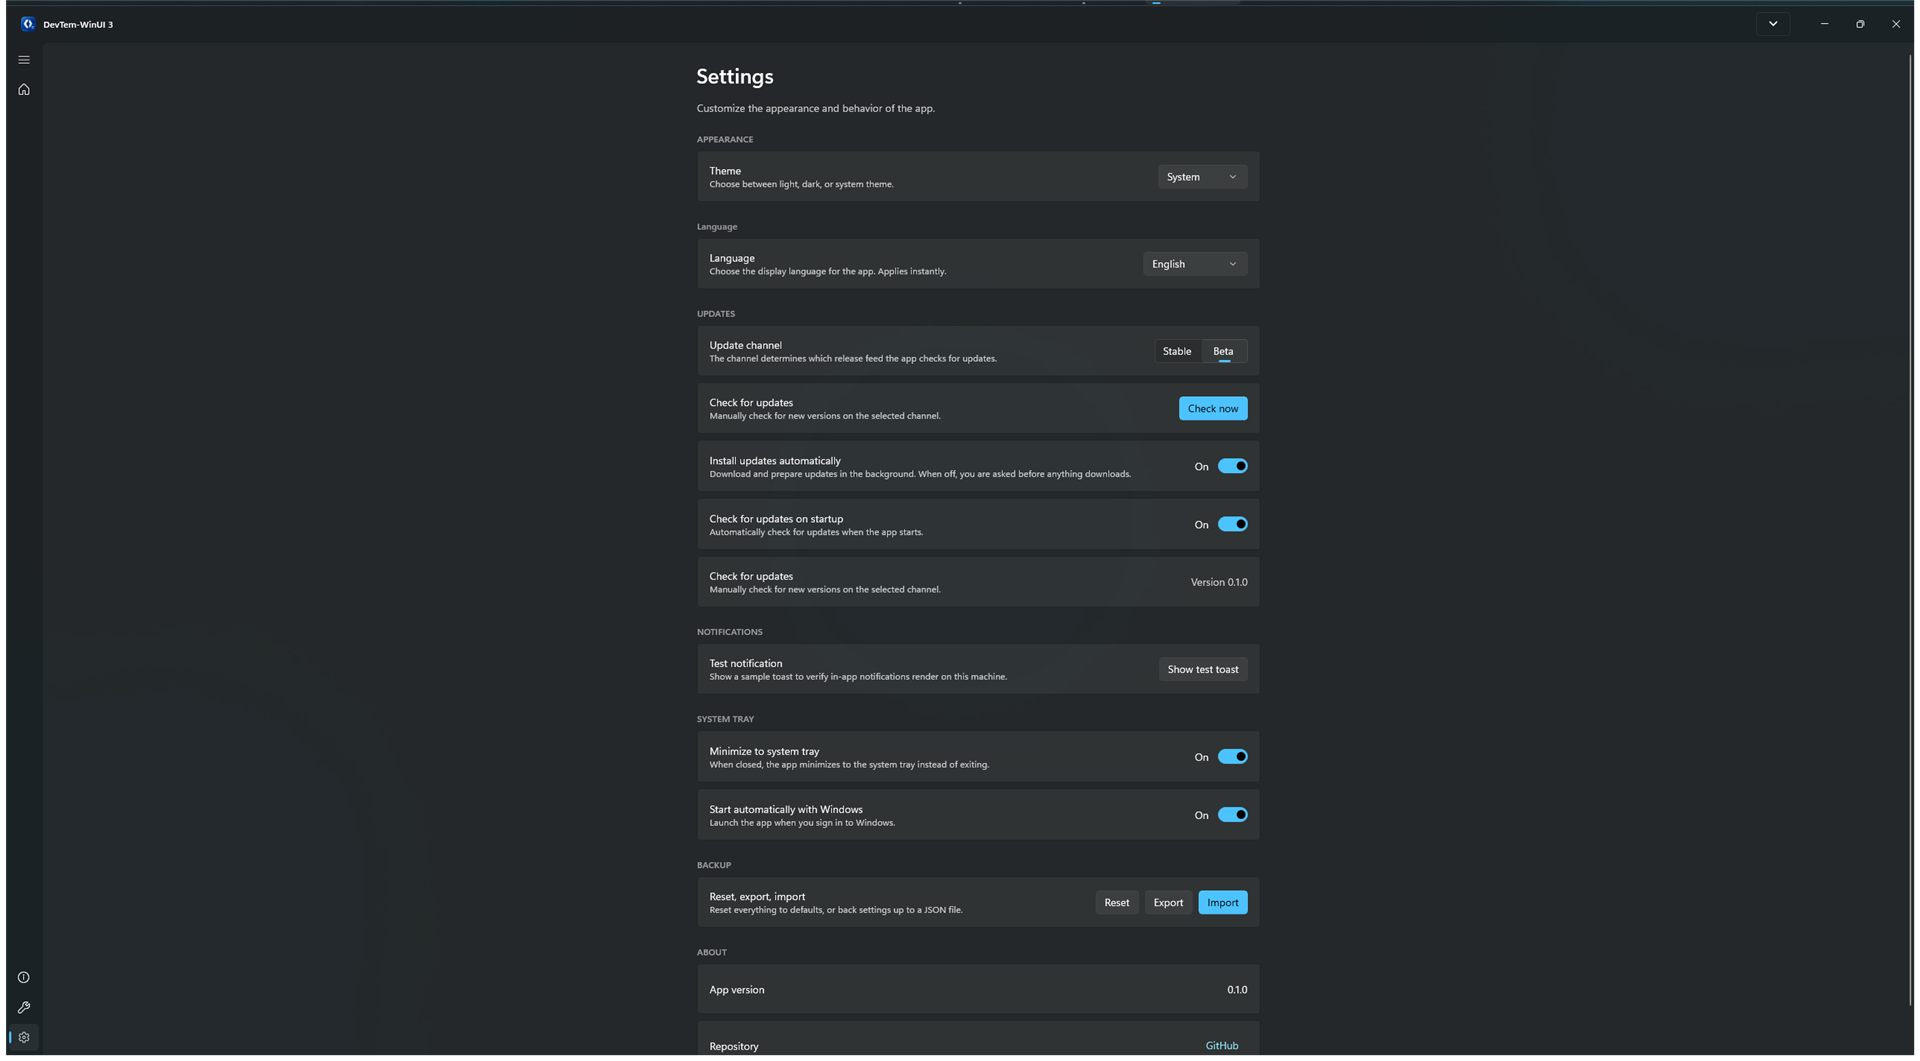
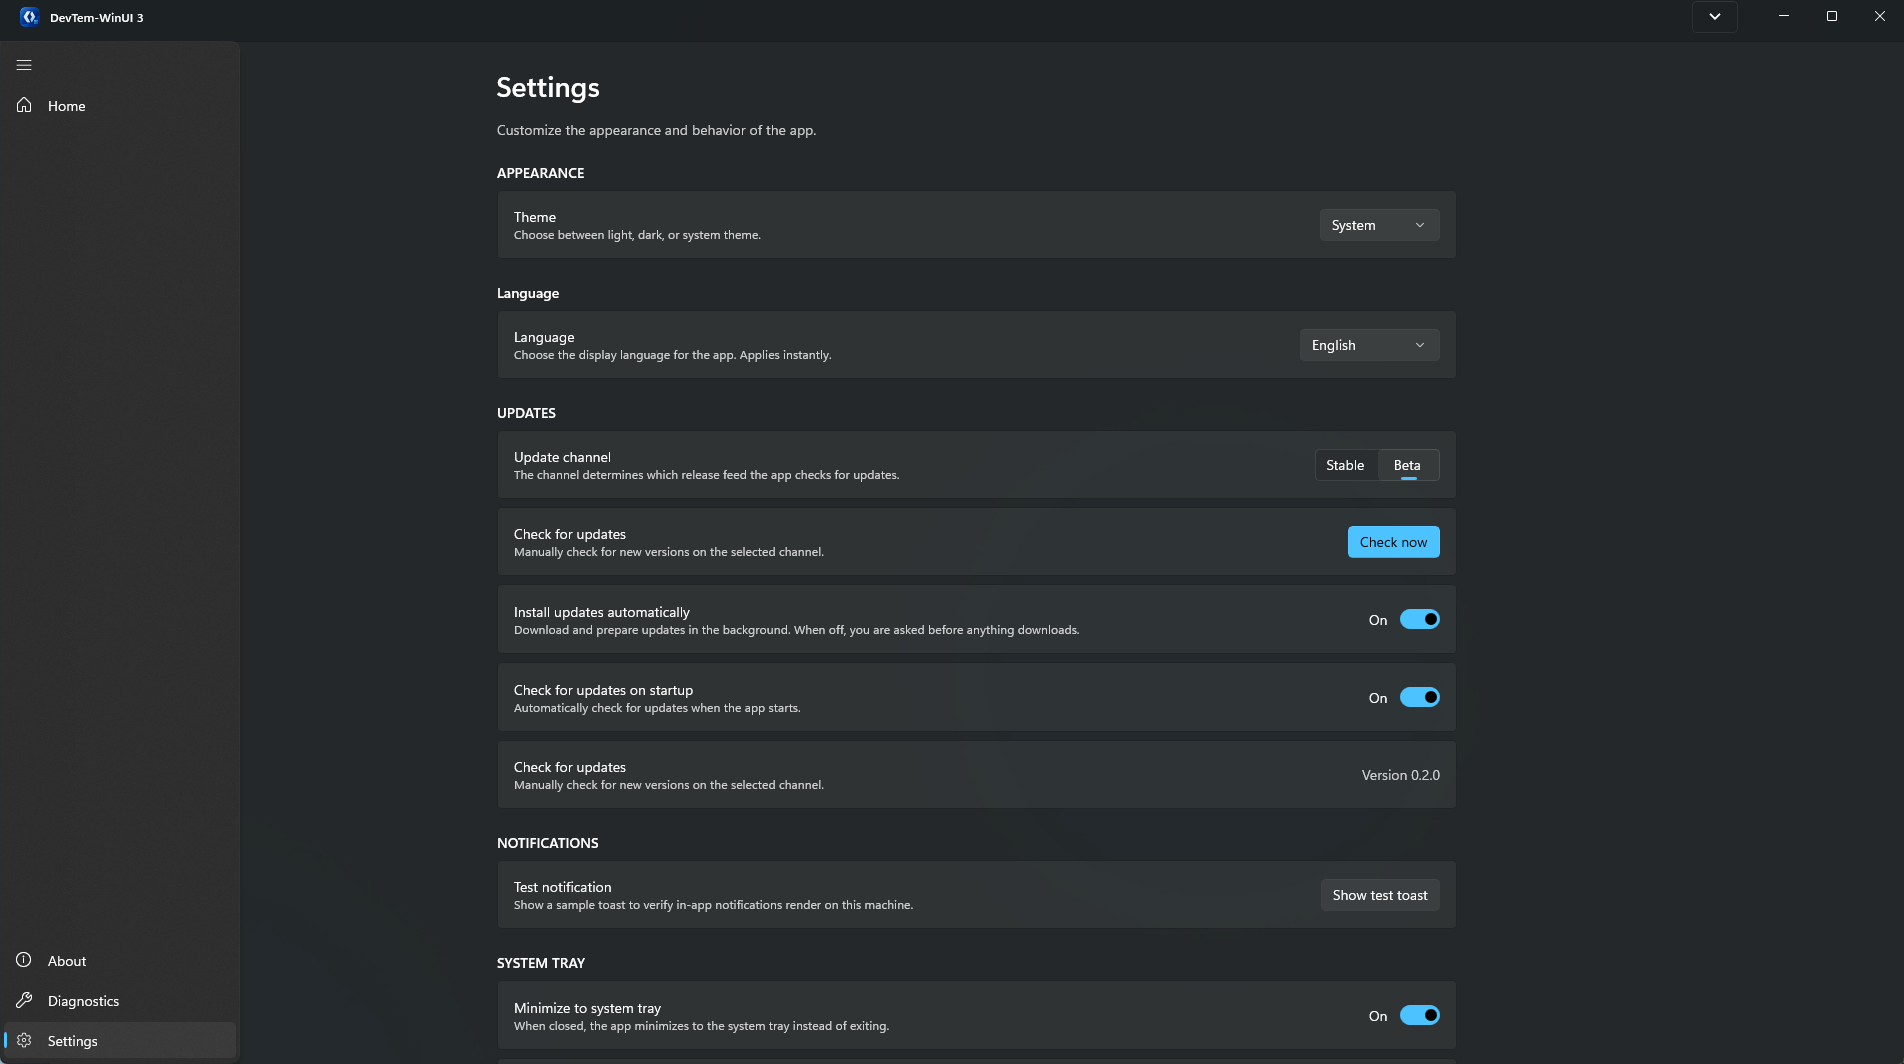
docs: v0.2.0 screenshots (shell-tabs, settings-cards, settings re-capture)

diff --git a/README.md b/README.md
@@ -83,6 +83,8 @@ the flags, and each scaffold records its picks in a generated
 | Tabs | Document apps: several open documents in one view | `add-page.ps1 -Kind tab` |
 | Menubar commands | Command-dense apps: menus over the same commands | `docs/TEMPLATE-GUIDE.md` "Shells" |
 
+![Tabbed workspace — document tabs with add/close over one rail route](docs/screenshots/shell-tabs.png)
+
 Earlier releases: full notes in [CHANGELOG.md](CHANGELOG.md).
 
 ## Run this repo locally
